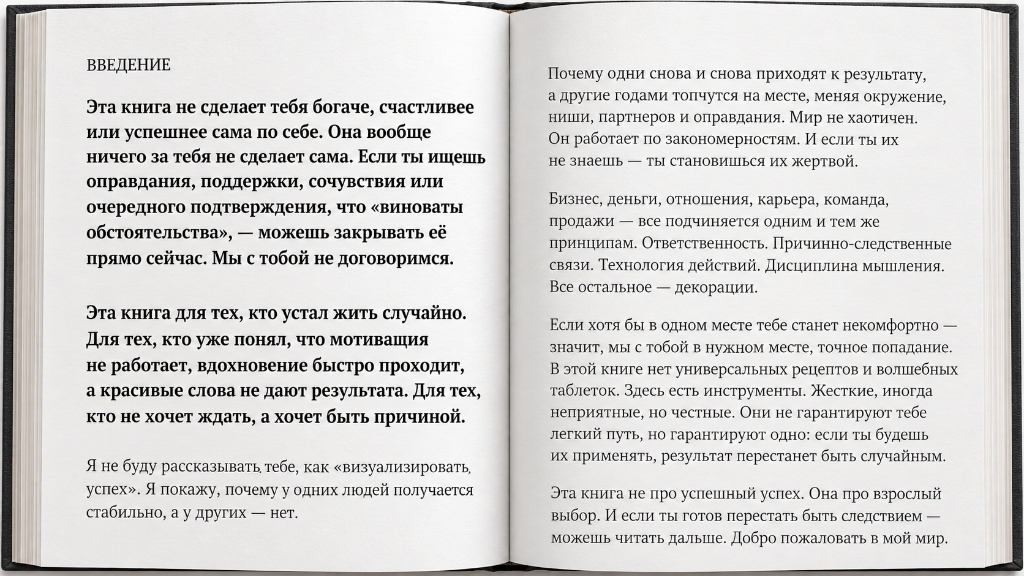
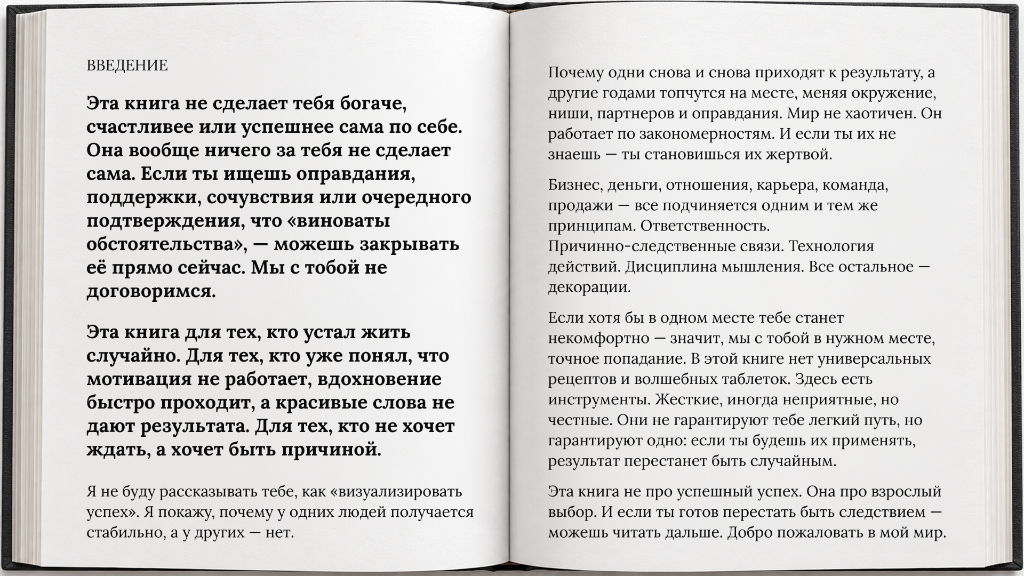
Обновлен разворот книги: высокое разрешение, полноэкранный блок 16:9 и аккуратное позиционирование кнопок

diff --git a/src/app/page.module.css b/src/app/page.module.css
@@ -81,50 +81,60 @@
   border-top: 1px solid var(--color-divider);
 }
 
-/* ─── BOOK SPREAD (РАЗВОРОТ 16:9 НА ВЕСЬ ЭКРАН) ── */
+/* ─── BOOK SPREAD (ФОТО НА ВЕСЬ ЭКРАН) ───────── */
 .spreadSection {
-  padding-block: var(--section-gap);
+  position: relative;
+  width: 100%;
+  min-height: 100svh;
+  display: flex;
+  flex-direction: column;
+  justify-content: flex-end;
+  overflow: hidden;
   border-top: 1px solid var(--color-divider);
   background-color: #ededed;
 }
 
-.spreadContainer {
+.spreadBackground {
+  position: absolute;
+  inset: 0;
+  z-index: 0;
+  display: flex;
+  align-items: center;
+  justify-content: center;
+}
+
+.spreadPhoto {
+  width: 100% !important;
+  height: 100% !important;
+  object-fit: contain !important;
+  display: block;
+}
+
+.spreadContent {
   position: relative;
+  z-index: 2;
   width: 100%;
   max-width: var(--content-max);
   margin-inline: auto;
   padding-inline: var(--gutter);
+  padding-bottom: clamp(16px, 2.5vh, 32px);
+  display: flex;
+  justify-content: flex-end;
 }
 
-.spreadFrame {
-  position: relative;
-  width: 100%;
-  aspect-ratio: 16 / 9;
-  border-radius: 4px;
-  box-shadow: 0 16px 56px rgba(0, 0, 0, 0.16);
-  background-color: #e5e5e5;
-}
-
-.spreadImage {
-  width: 100%;
-  height: 100%;
-  object-fit: cover;
-  display: block;
-  border-radius: 4px;
-}
-
-/* Кнопки прямо в конце второй страницы разворота */
 .spreadPageActions {
-  position: absolute;
-  right: 6%;
-  bottom: 0;
-  transform: translateY(50%);
   display: flex;
   flex-direction: row;
   flex-wrap: wrap;
   align-items: center;
   gap: 12px;
-  z-index: 10;
+  background: rgba(255, 255, 255, 0.95);
+  backdrop-filter: blur(12px);
+  -webkit-backdrop-filter: blur(12px);
+  padding: 10px 16px;
+  border-radius: 6px;
+  box-shadow: 0 8px 32px rgba(0, 0, 0, 0.18);
+  border: 1px solid rgba(0, 0, 0, 0.08);
 }
 
 .continueReadBtn {
@@ -142,7 +152,7 @@
   border-radius: 3px;
   text-decoration: none;
   white-space: nowrap;
-  box-shadow: 0 6px 20px rgba(22, 71, 232, 0.4);
+  box-shadow: 0 4px 14px rgba(22, 71, 232, 0.35);
   transition: transform 0.15s, background-color 0.15s;
 }
 
@@ -728,17 +738,19 @@
   }
 
   .spreadSection {
-    padding-block: 40px;
+    min-height: 100svh;
+  }
+
+  .spreadContent {
+    padding-bottom: 24px;
+    justify-content: center;
   }
 
   .spreadPageActions {
-    position: static;
     width: 100%;
-    margin-top: 18px;
-    left: auto;
-    right: auto;
-    bottom: auto;
     justify-content: center;
+    flex-direction: column;
+    gap: 12px;
   }
 
   .whyGrid,

diff --git a/src/app/page.tsx b/src/app/page.tsx
@@ -52,29 +52,31 @@ export default function HomePage() {
         </section>
 
         {/* ─────────────────────────────────────────── */}
-        {/* 2. РАЗВОРОТ КНИГИ (16:9 фото на весь экран)*/}
+        {/* 2. РАЗВОРОТ КНИГИ (фото на весь экран)      */}
         {/* ─────────────────────────────────────────── */}
         <section
           className={styles.spreadSection}
           id="about-book"
           aria-label="Разворот книги"
         >
-          <div className={styles.spreadContainer}>
-            <div className={styles.spreadFrame}>
-              <Image
-                src="/images/book-spread.jpg"
-                alt="Разворот книги: Введение — Выжить недостаточно"
-                width={1024}
-                height={576}
-                priority
-                className={styles.spreadImage}
-              />
-              <div className={styles.spreadPageActions}>
-                <Link href="/read/intro" className={styles.continueReadBtn}>
-                  Продолжить читать →
-                </Link>
-                <BuyGiftGroup className={styles.spreadBuyBtns} />
-              </div>
+          {/* Фото разворота — на весь экран блока */}
+          <div className={styles.spreadBackground}>
+            <Image
+              src="/images/book-spread.jpg"
+              alt="Разворот книги: Введение — Выжить недостаточно"
+              fill
+              priority
+              className={styles.spreadPhoto}
+            />
+          </div>
+
+          {/* Кнопки в конце второй страницы */}
+          <div className={`container ${styles.spreadContent}`}>
+            <div className={styles.spreadPageActions}>
+              <Link href="/read/intro" className={styles.continueReadBtn}>
+                Продолжить читать →
+              </Link>
+              <BuyGiftGroup className={styles.spreadBuyBtns} />
             </div>
           </div>
         </section>
